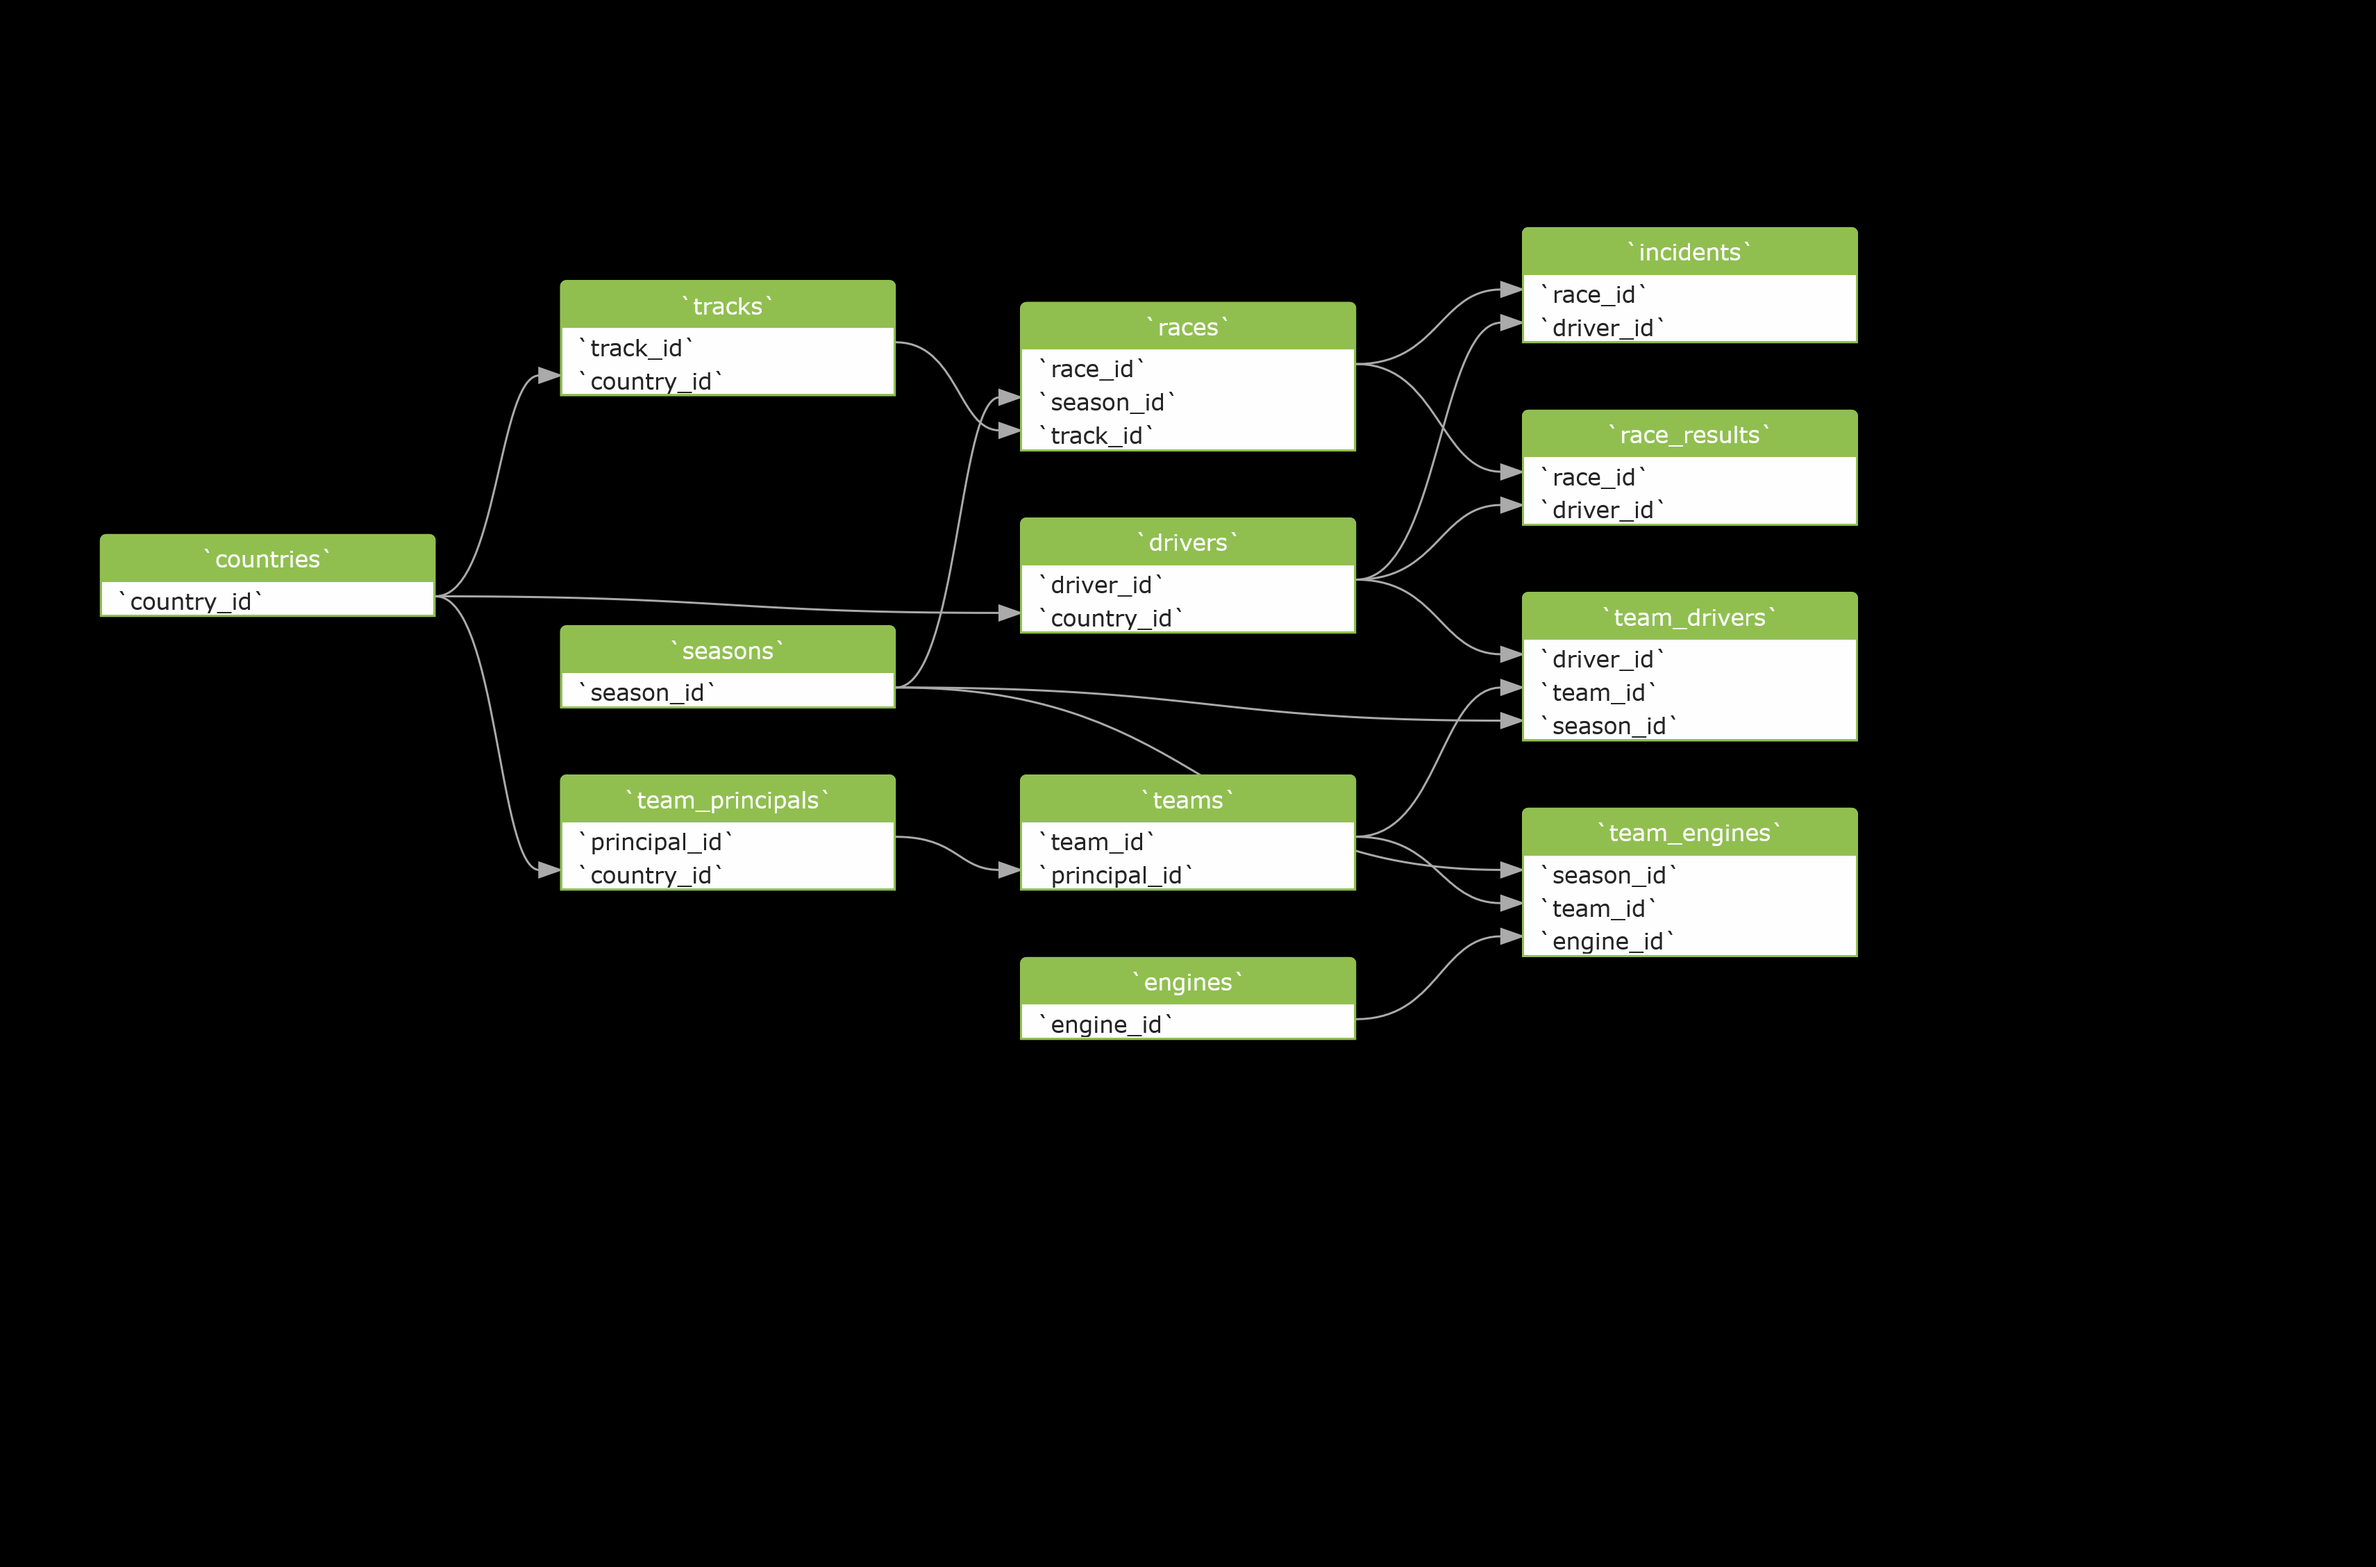
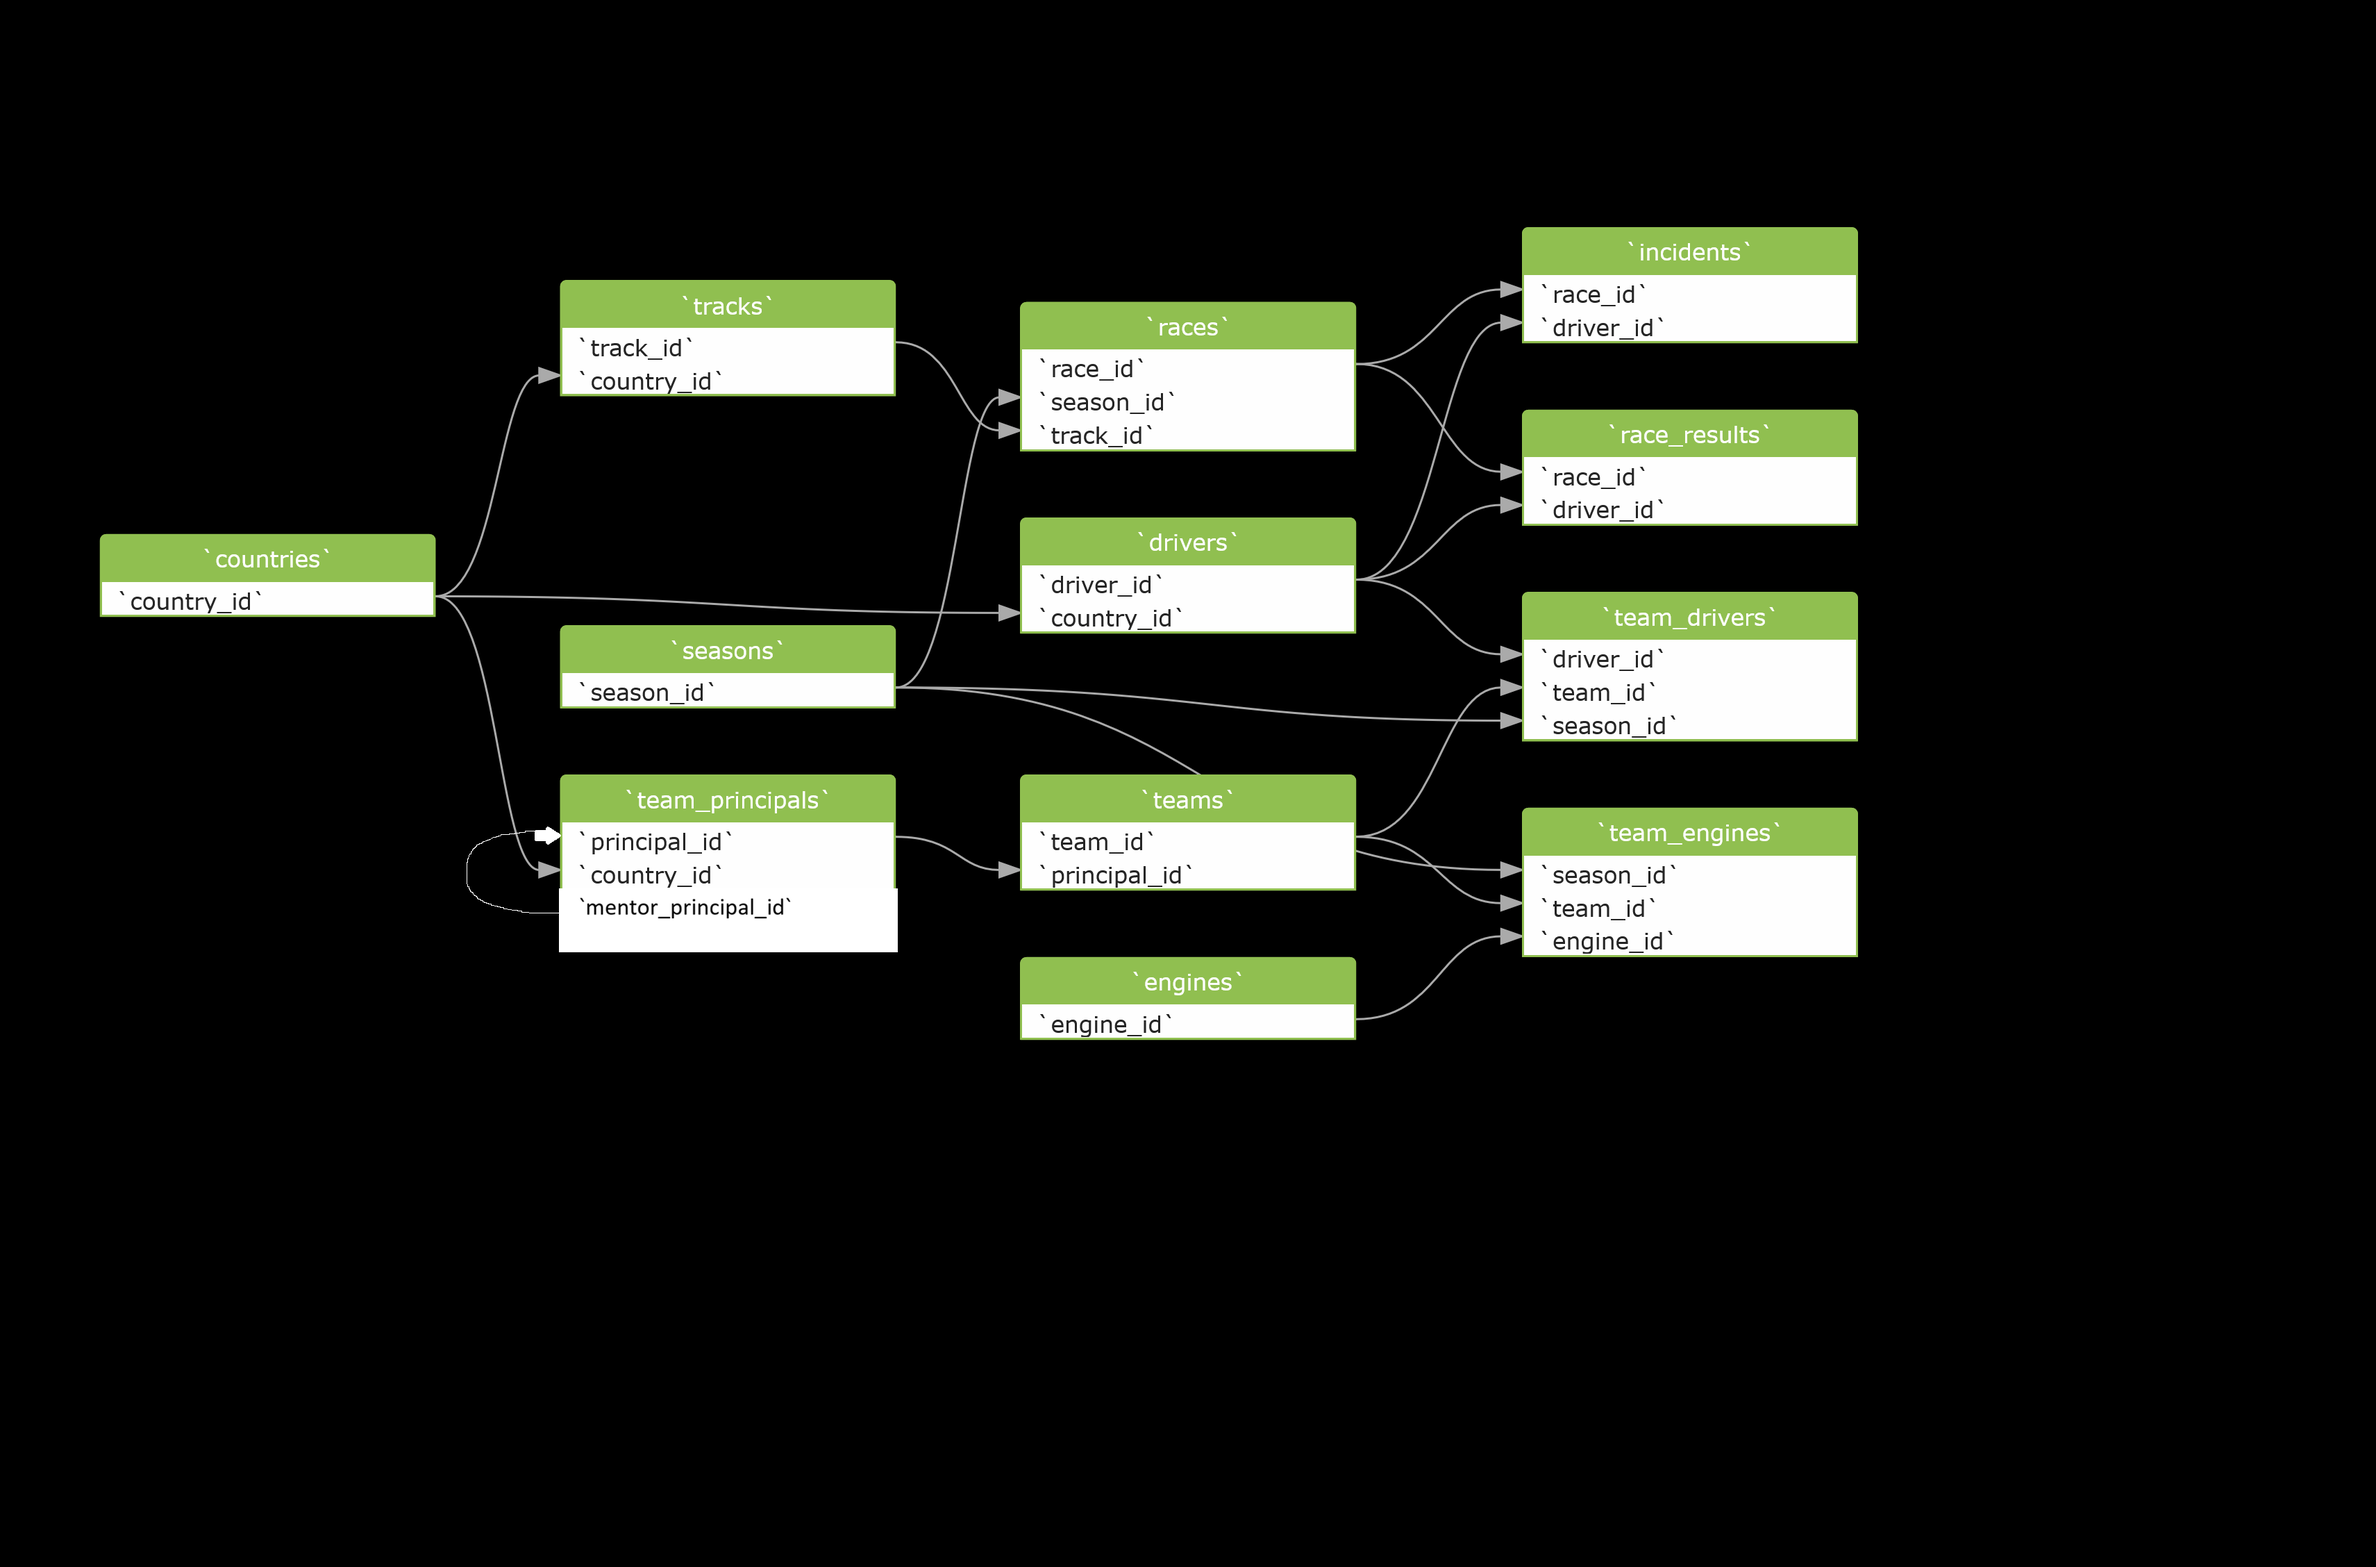
lil tweaks

Changed region(s): [[0.2168, 0.5585, 0.4027, 0.6206]]

diff --git a/URDB/orm_example.py b/URDB/orm_example.py
@@ -11,13 +11,17 @@ from sqlalchemy.orm import sessionmaker, relationship
 # ============================================
 
 # Připojení k MySQL/MariaDB databázi
-# Formát: mysql+pymysql://user:password@host:port/database
+# mysql+pymysql://user:password@host:port/database
+
 # DB_USER = os.getenv("DB_USER", "root")
 # DB_PASSWORD = os.getenv("DB_PASSWORD", "password")
+
 # DB_USER = os.getenv("DB_USER", "f1_viewer")
-# DB_PASSWORD = os.getenv("DB_PASSWORD", "heslo123")      
+# DB_PASSWORD = os.getenv("DB_PASSWORD", "heslo123")     
+#  
 DB_USER = os.getenv("DB_USER", "f1_editor")
 DB_PASSWORD = os.getenv("DB_PASSWORD", "heslo456")
+
 DB_HOST = os.getenv("DB_HOST", "localhost")
 DB_PORT = os.getenv("DB_PORT", "3306")
 DB_NAME = os.getenv("DB_NAME", "f1_database")
@@ -30,7 +34,7 @@ session = Session()
 
 Base = declarative_base()
 
-# DEFINICE MODELŮ (ORM MAPOVÁNÍ)
+# DEFINICE MODELŮ
 
 class Country(Base):
     """Model pro tabulku countries"""
